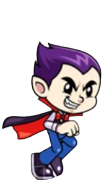
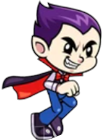
Some modification
1. Run animation  modified
2. flying animation modified
3. run images resized
4. fly image resized
5. monster (mons2.png) image resized

diff --git a/core/src/game/Character.java b/core/src/game/Character.java
@@ -6,10 +6,11 @@ import com.badlogic.gdx.graphics.Texture;
 import com.badlogic.gdx.graphics.g2d.Animation;
 import com.badlogic.gdx.graphics.g2d.SpriteBatch;
 import com.badlogic.gdx.graphics.g2d.TextureRegion;
+import com.badlogic.gdx.utils.Array;
 
 public class Character implements ForObject {
     float characterX = 50, characterY = 0;
-    public float characterWidth = 100, characterHeight = 147; // change
+    public float characterWidth = 108, characterHeight = 140; // change
     private final float CHARACTER_SPEED = 250;
     Collision collision;
 
@@ -17,8 +18,9 @@ public class Character implements ForObject {
     float runStateTime = 0f;
     Animation runAnimation;
     TextureRegion runReg;
-    public int runRows = 2, runCols = 5;
-    public float runFrameDuration = 0.1f;
+//    public int runRows = 2, runCols = 5;
+    public int runImgCnt = 9;
+    public float runFrameDuration = 0.075f;
     // run animation ends
 
     // fly animation starts
@@ -80,15 +82,17 @@ public class Character implements ForObject {
     }
 
     public void setCharacterPosition() {
-        if (Gdx.input.isKeyJustPressed(Input.Keys.W) && jumpDelay == false) {
+        if (Gdx.input.isKeyJustPressed(Input.Keys.W) && !jumpDelay) {
             characterY = waterMinHeight;
             inWater = true;
             inAir = false;
+            characterWidth = 108;
         }
-        else if (Gdx.input.isKeyJustPressed(Input.Keys.S) && jumpDelay == false) {
+        else if (Gdx.input.isKeyJustPressed(Input.Keys.S) && !jumpDelay && !inAir) {
             characterY = airMinHeight;
             inAir = true;
             inWater = false;
+            characterWidth = 69;
         }
     }
 
@@ -105,11 +109,11 @@ public class Character implements ForObject {
 
     @Override
     public void render(SpriteBatch batch) {
-        if (jumpDelay == true) {
+        if (jumpDelay) {
             renderJumpAnimation(batch);
         }
 
-        if (characterY == 0 && Gdx.input.isKeyJustPressed(Input.Keys.SPACE) && jumpDelay == false) {
+        if (characterY == 0 && Gdx.input.isKeyJustPressed(Input.Keys.SPACE) && !jumpDelay) {
             jumpDirection = 0;
             jumpStateTime = 0f;
             jumpDelay = true;
@@ -119,10 +123,10 @@ public class Character implements ForObject {
 //            System.out.println(jumpMaxHeight);
 //            System.out.println(jumpSpeed * Gdx.graphics.getDeltaTime());
         }
-        else if (characterY == 0 && jumpDelay == false) {
+        else if (characterY == 0 && !jumpDelay) {
             renderRunAnimation(batch);
         }
-        else if (characterY >= airMinHeight && jumpDelay == false) {
+        else if (characterY >= airMinHeight && !jumpDelay) {
             renderFlyAnimation(batch);
         }
     }
@@ -134,20 +138,14 @@ public class Character implements ForObject {
 
     public void createRunAnimation() {
         // run animation starts
-        Texture runSheet = new Texture("Run\\run1.png");
-
-        TextureRegion[][] runningTmp = TextureRegion.split(runSheet,
-                runSheet.getWidth() / runCols,
-                runSheet.getHeight() / runRows);
-
-        TextureRegion[] runFrames = new TextureRegion[runRows * runCols];
-        int index = 0;
-        for (int i = 0; i < runRows; i++) {
-            for (int j = 0; j < runCols; j++) {
-                runFrames[index++] = runningTmp[i][j];
-            }
+        Array<TextureRegion> textureRegion = new Array<>();
+        for (int i = 1; i <= runImgCnt + 1; i++) {
+            if (i == 6) continue;
+            Texture texture = new Texture("Run\\r" + i + ".png");
+            texture.setFilter(Texture.TextureFilter.Linear, Texture.TextureFilter.Linear);
+            textureRegion.add(new TextureRegion(texture));
         }
-        runAnimation = new Animation<TextureRegion>(runFrameDuration, runFrames);
+        runAnimation = new Animation<>(runFrameDuration, textureRegion);
         runStateTime = 0f;
         // run animation ends
     }
@@ -155,7 +153,7 @@ public class Character implements ForObject {
     public void renderRunAnimation(SpriteBatch batch) {
         // run animation starts
         runStateTime += Gdx.graphics.getDeltaTime();
-        runStateTime %= (runFrameDuration * (runRows * runCols));
+        runStateTime %= (runFrameDuration * runImgCnt);
         runReg = (TextureRegion) runAnimation.getKeyFrame(runStateTime);
 
         batch.draw(runReg, characterX, characterY, characterWidth / 2, characterHeight / 2,
@@ -199,7 +197,7 @@ public class Character implements ForObject {
 //        batch.draw(flyReg, characterX, characterY, characterWidth / 2, characterHeight / 2,
 //                characterWidth,characterHeight,1,1,0);
 //        // fly animation ends
-        Texture flyPic = new Texture("Fly\\f1.png");
+        Texture flyPic = new Texture("Fly\\f11.png");
         batch.draw(flyPic, characterX, characterY, characterWidth, characterHeight);
     }
 

diff --git a/core/src/game/Bullet.java b/core/src/game/Bullet.java
@@ -12,7 +12,7 @@ public class Bullet implements ForObject{
 
     public float bulletVerticalSpeed = 60, bulletHorizontalSpeed = 200;
     public float bulletDistanceCorrection = bulletVerticalSpeed * Gdx.graphics.getDeltaTime();
-    public float bulletWidth = 240, bulletHeight = 200; // Change
+    public float bulletWidth = 150, bulletHeight = 70.8f; // Change
     //public float bulletWidth = 240, bulletHeight = 200;  default
     //public float bulletWidth = 279, bulletHeight = 150;  tortoise
     //public float bulletWidth = 160, bulletHeight = 150;  bluebird
